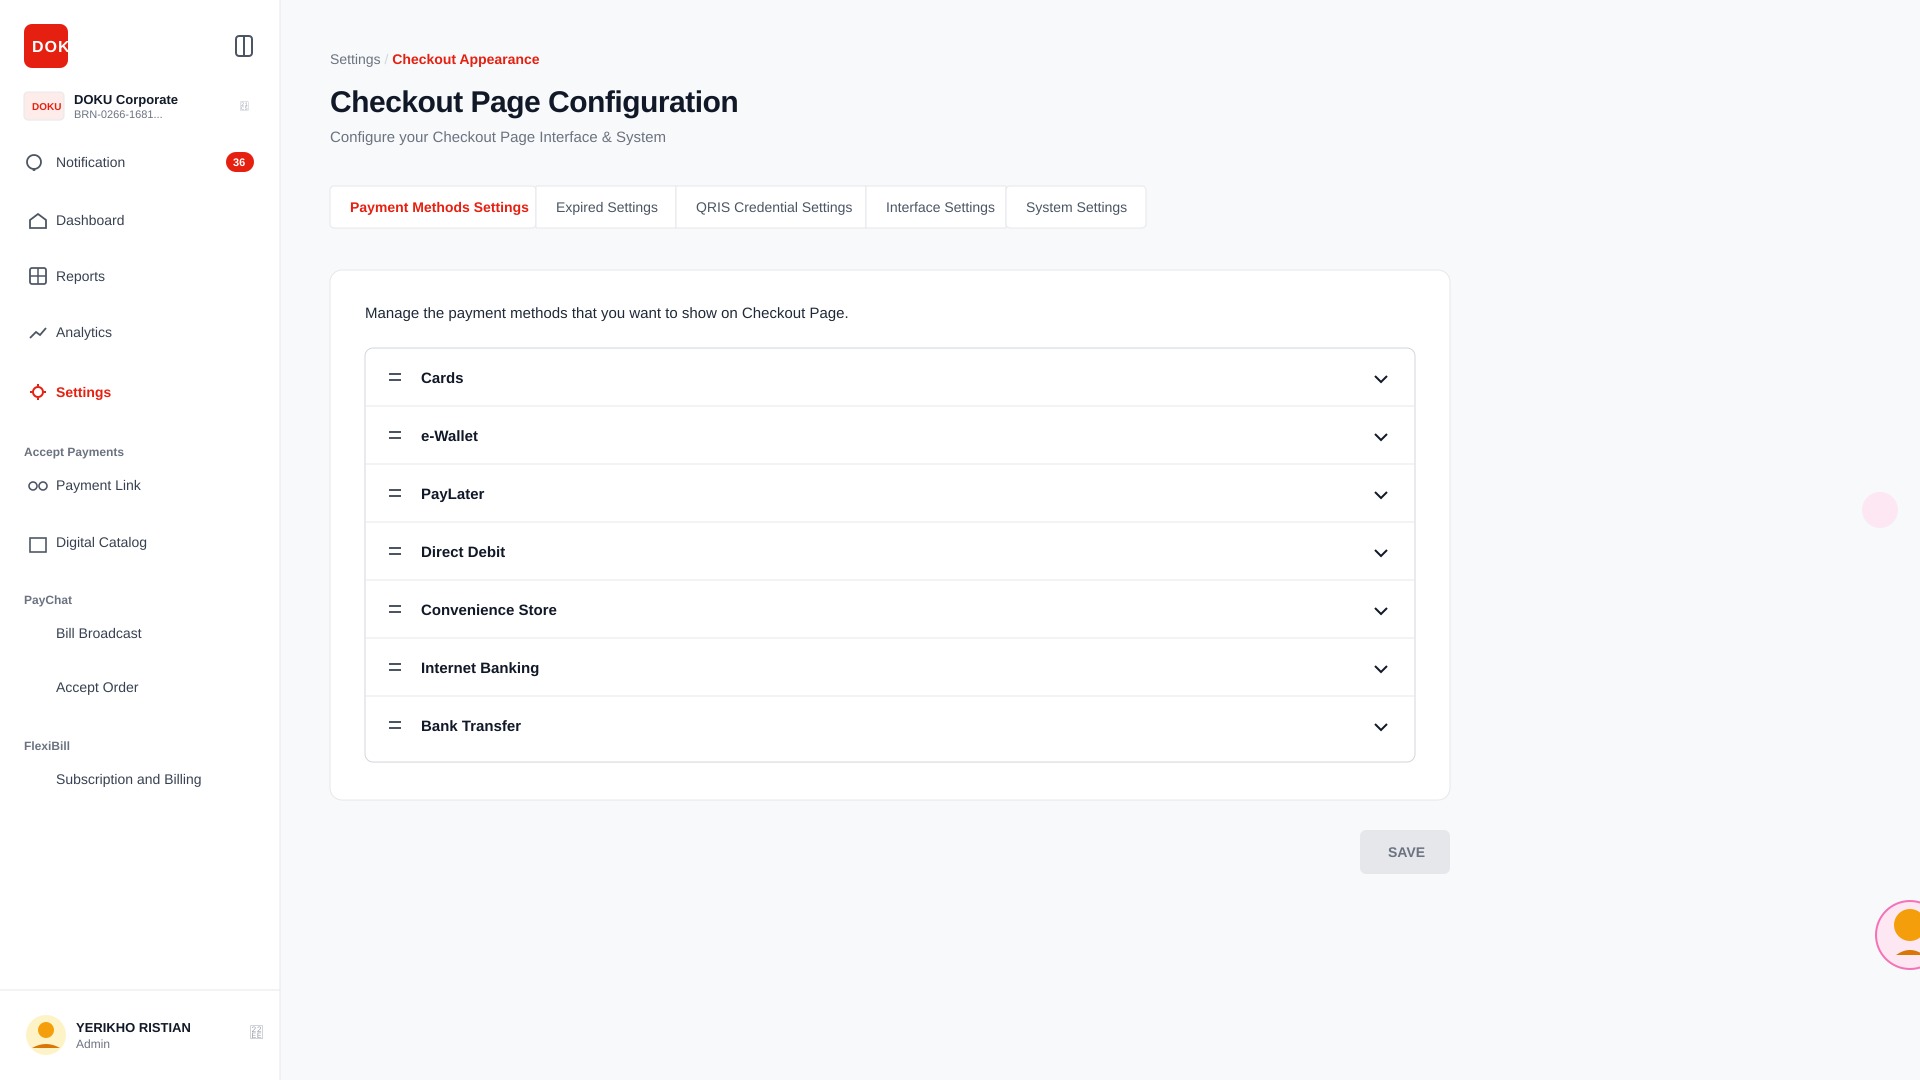
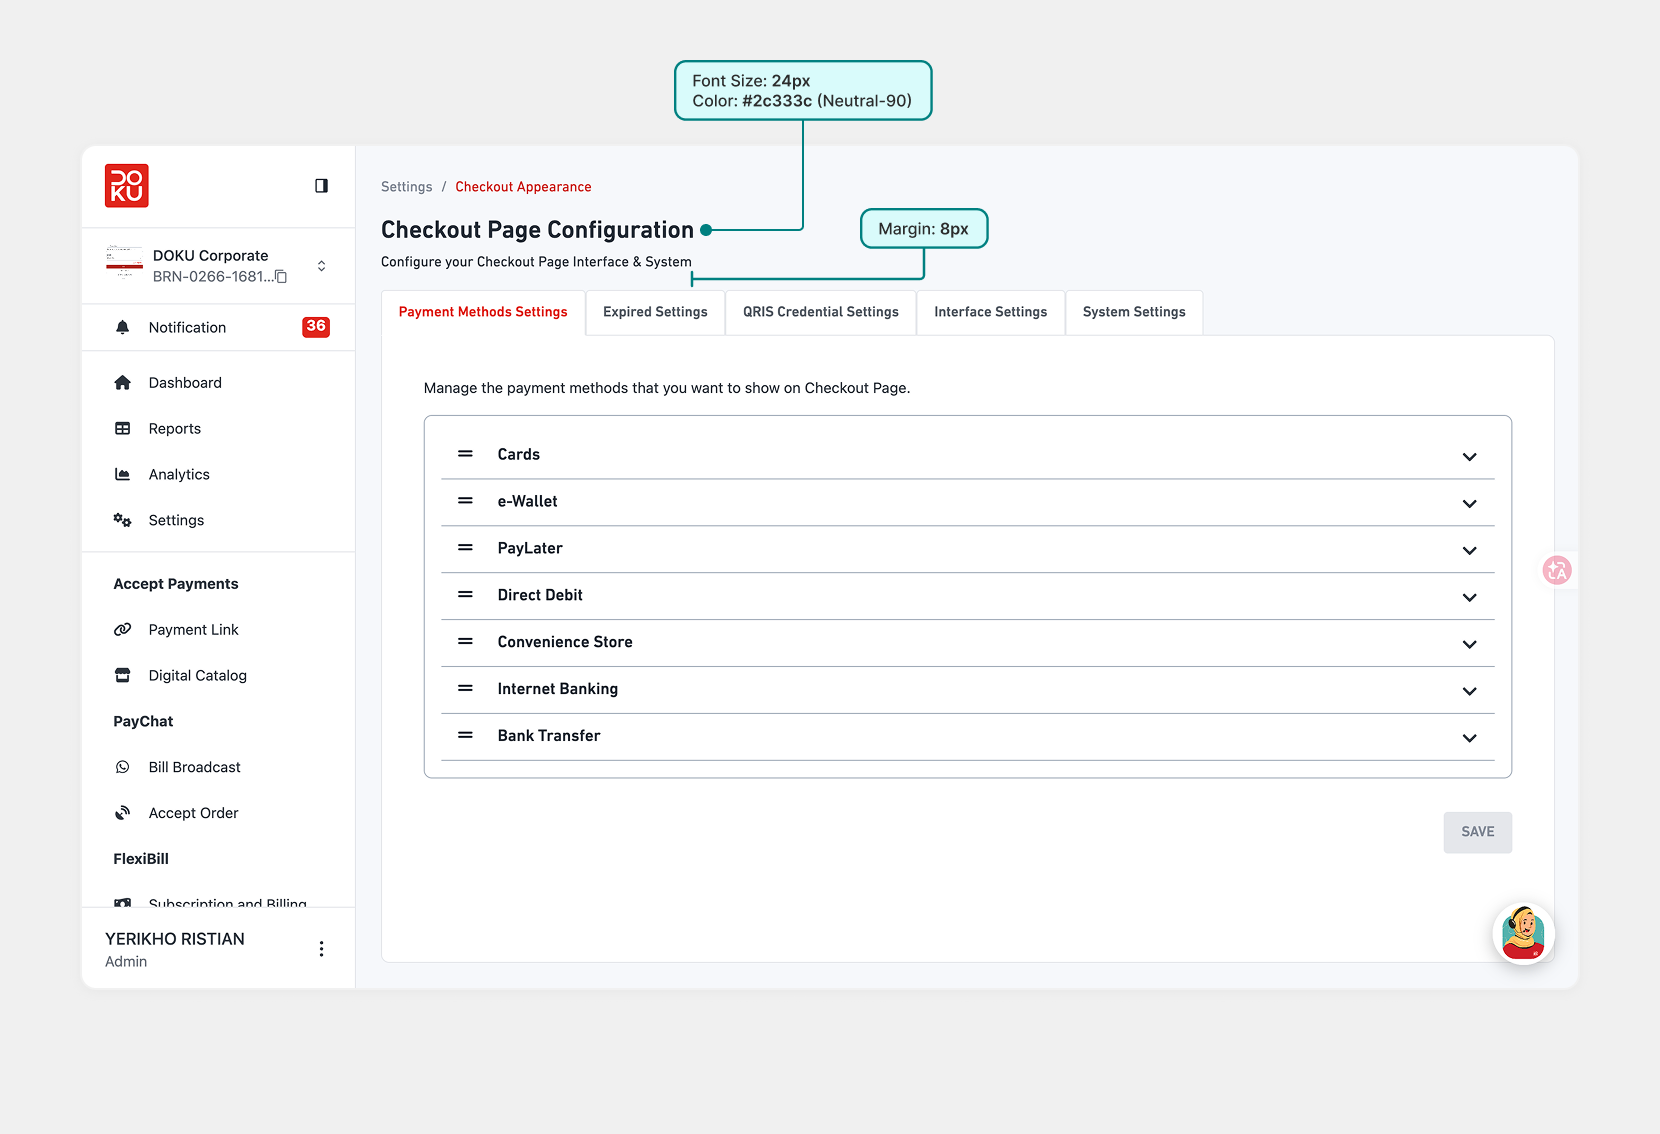
refactor: update assets and simplify sidebar
- Replace designer project images with new AI studio assets.
- Remove local storage image override logic.
- Replace CV download button with timezone component in sidebar.

diff --git a/src/components/Sidebar.tsx b/src/components/Sidebar.tsx
@@ -262,67 +262,11 @@ export default function Sidebar({
                   ))}
                 </nav>
 
-                {/* Download CV & Copy Email actions */}
+                {/* Timezone component matching existing desktop sidebar */}
                 <div className="sidebar__collapsible-footer">
-                  <button
-                    type="button"
-                    onClick={() => {
-                      if (onOpenResume) {
-                        onOpenResume();
-                      }
-                      setIsMenuOpen(false);
-                    }}
-                    className="btn btn--primary"
-                    title="Download Aldo Abieza CV"
-                  >
-                    <span className="btn__label">Download Resume</span>
-                    <span className="btn__icon">
-                      <span className="btn__icon-viewport">
-                        <span className="btn__icon-roll">
-                          <svg width="16" height="16" viewBox="0 0 24 24" fill="none" stroke="currentColor" strokeWidth="2" strokeLinecap="round" strokeLinejoin="round">
-                            <path d="M 12 2 C 17.523 2 22 6.477 22 12 C 22 17.523 17.523 22 12 22 C 6.477 22 2 17.523 2 12 C 2 6.477 6.477 2 12 2 Z" />
-                            <path d="M 8 12 L 12 16 L 16 12" />
-                            <path d="M 12 8 L 12 16" />
-                          </svg>
-                          <svg width="16" height="16" viewBox="0 0 24 24" fill="none" stroke="currentColor" strokeWidth="2" strokeLinecap="round" strokeLinejoin="round">
-                            <path d="M 12 2 C 17.523 2 22 6.477 22 12 C 22 17.523 17.523 22 12 22 C 6.477 22 2 17.523 2 12 C 2 6.477 6.477 2 12 2 Z" />
-                            <path d="M 8 12 L 12 16 L 16 12" />
-                            <path d="M 12 8 L 12 16" />
-                          </svg>
-                        </span>
-                      </span>
-                    </span>
-                  </button>
-
-                  <button
-                    type="button"
-                    onClick={handleCopyEmail}
-                    className={`btn btn--ghost btn--copy ${copied ? 'is-copied' : ''}`}
-                    aria-label="Copy email to clipboard"
-                  >
-                    <span className="btn__label">{copied ? 'Copied' : 'Copy Email'}</span>
-                    <span className="btn__icon">
-                      <span className="btn__icon-default">
-                        <span className="btn__icon-viewport">
-                          <span className="btn__icon-roll">
-                            <svg width="16" height="16" viewBox="0 0 24 24" fill="none" stroke="currentColor" strokeWidth="2" strokeLinecap="round" strokeLinejoin="round">
-                              <rect x="9" y="9" width="13" height="13" rx="2" ry="2" />
-                              <path d="M5 15H4a2 2 0 0 1-2-2V4a2 2 0 0 1 2-2h9a2 2 0 0 1 2 2v1" />
-                            </svg>
-                            <svg width="16" height="16" viewBox="0 0 24 24" fill="none" stroke="currentColor" strokeWidth="2" strokeLinecap="round" strokeLinejoin="round">
-                              <rect x="9" y="9" width="13" height="13" rx="2" ry="2" />
-                              <path d="M5 15H4a2 2 0 0 1-2-2V4a2 2 0 0 1 2-2h9a2 2 0 0 1 2 2v1" />
-                            </svg>
-                          </span>
-                        </span>
-                      </span>
-                      <span className="btn__icon-check">
-                        <svg width="16" height="16" viewBox="0 0 24 24" fill="none" stroke="currentColor" strokeWidth="2.5" strokeLinecap="round" strokeLinejoin="round">
-                          <polyline points="20 6 9 17 4 12" />
-                        </svg>
-                      </span>
-                    </span>
-                  </button>
+                  <div className="sidebar__timezone" aria-label="Current Jakarta Time">
+                    Jakarta; {timeString} GMT+7
+                  </div>
                 </div>
               </div>
             </motion.div>

diff --git a/src/components/InconsistencyCards.tsx b/src/components/InconsistencyCards.tsx
@@ -27,7 +27,7 @@ const DESIGNERS: DesignerData[] = [
     description:
       'First designer have approach to designing foundation of header page, and design the behaviour for user navigation return to parent menu using the breadcrumb.',
     caption: 'Detail Page: Without Return Navigation (Checkout Page Configuration)',
-    imageSrc: '/assets/projects/doku/screenshot-1-checkout.png',
+    imageSrc: '/assets/aistudio/Image_1_953ca73a.png',
     videoSrc: '/assets/projects/doku/doku-component-1-without-return.mp4'
   },
   {
@@ -36,7 +36,7 @@ const DESIGNERS: DesignerData[] = [
     description:
       'Second designer have different approach to designing the foundation of header page and the behaiour for user navigation return by close button',
     caption: 'Detail Page: With Return Navigation (Payment Link Settings)',
-    imageSrc: '/assets/projects/doku/screenshot-2-payment-link.png',
+    imageSrc: '/assets/aistudio/Image_2_72d1a0b5.png',
     videoSrc: '/assets/projects/doku/doku-component-2-with-return.mp4'
   }
 ];
@@ -52,16 +52,7 @@ export function InconsistencyCards({ onExpand }: InconsistencyCardsProps) {
   const currentDesigner =
     DESIGNERS.find((d) => d.id === selectedDesigner) || DESIGNERS[0];
 
-  const storageKey = `custom_foundation_image_${currentDesigner.id}`;
-  const customImage = (() => {
-    try {
-      return localStorage.getItem(storageKey);
-    } catch {
-      return null;
-    }
-  })();
-
-  const activeImageSrc = customImage || currentDesigner.imageSrc;
+  const activeImageSrc = currentDesigner.imageSrc;
 
   const handleSelectSubTab = (designerId: DesignerId, tab: TabType) => {
     setSelectedDesigner(designerId);

diff --git a/src/index.css b/src/index.css
@@ -475,6 +475,12 @@ img { max-width: 100%; display: block; }
     flex-direction: column;
     gap: 12px;
   }
+  .sidebar__collapsible-footer .sidebar__timezone {
+    font-size: 11px;
+    color: var(--muted);
+    font-family: var(--font-body);
+    letter-spacing: 0.02em;
+  }
   .sidebar__collapsible-footer .btn {
     width: 100%;
     justify-content: center;
